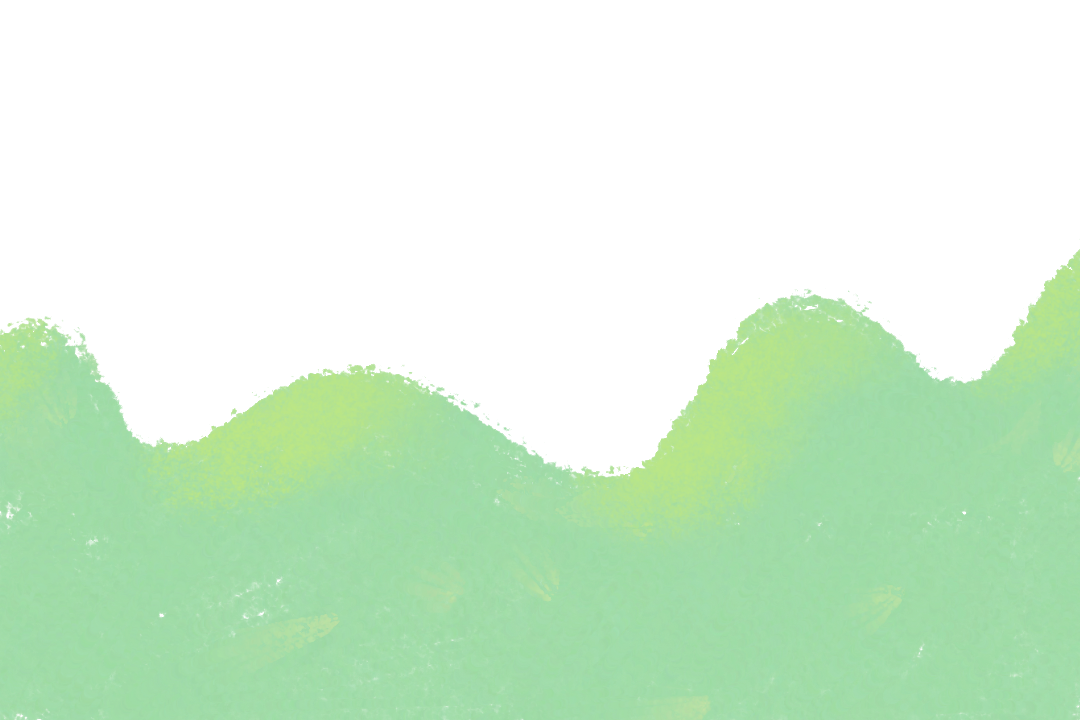
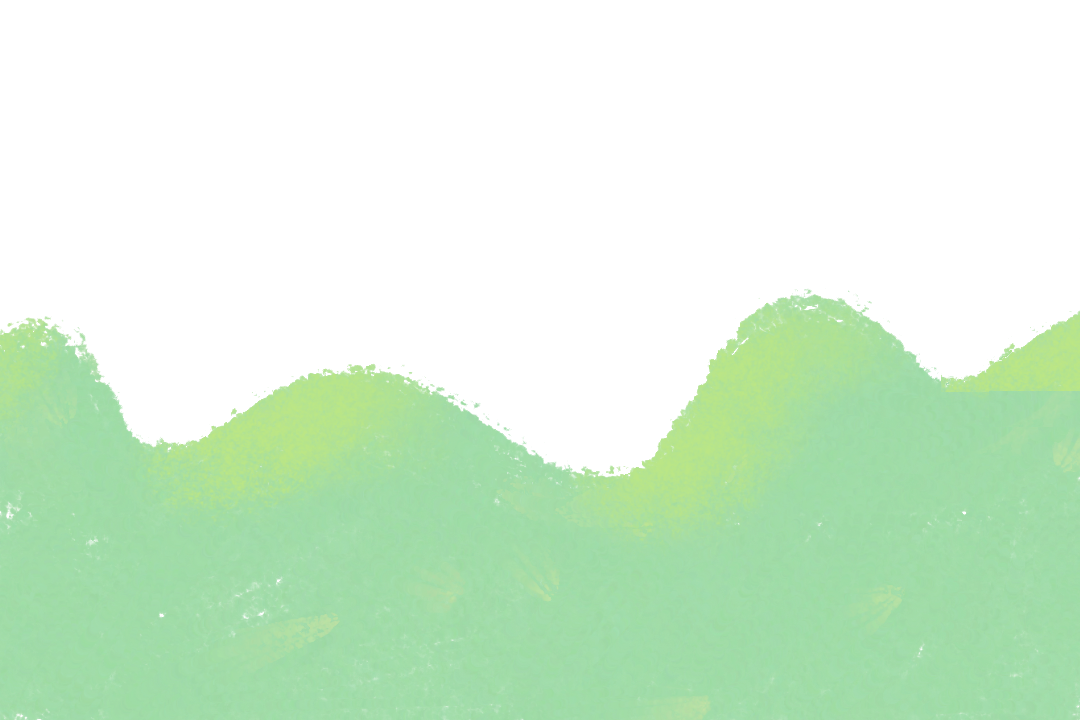
Made the necessary changes to change the background images.

Changed region(s): [[0.9167, 0.3361, 1.0, 0.5194], [0.9472, 0.4889, 1.0, 0.55], [0.8556, 0.5194, 0.9167, 0.55]]

diff --git a/ScrollerWorld/Src/js/main.js b/ScrollerWorld/Src/js/main.js
@@ -2,7 +2,7 @@
  * Created by ajt on 11/29/2015.
  */
 function Main() {
-    this.renderer = PIXI.autoDetectRenderer(512, 384, {backgroundColor: 0x66FF99});
+    this.renderer = PIXI.autoDetectRenderer(1080, 720, {backgroundColor: 0x66FF99});
     document.body.appendChild(this.renderer.view);
     this.stage = new PIXI.Container(0x66FF99);
 
@@ -27,8 +27,8 @@ Main.prototype.update = function() {
 };
 
 Main.prototype.loadSpriteSheet = function() {
-    var assetsToLoad = ["../resources/wall.json", "../resources/bg-mid.png",
-        "../resources/bg-far.png", "../resources/characterSprites.json", "../resources/characterSprites.png"];
+    var assetsToLoad = ["../resources/wall.json", "../resources/bg1.png",
+        "../resources/test2.png", "../resources/bg3.png", "../resources/characterSprites.json", "../resources/characterSprites.png"];
     loader = new PIXI.loaders.Loader();
     loader.add(assetsToLoad).load(this.spriteSheetLoaded.bind(this))
 };

diff --git a/ScrollerWorld/Src/js/Mid2.js b/ScrollerWorld/Src/js/Mid2.js
@@ -1,8 +1,8 @@
 /**
  * Created by ajt on 11/29/2015.
  */
-function Mid() {
-    var texture = PIXI.Texture.fromImage("../resources/test2.png");
+function Mid2() {
+    var texture = PIXI.Texture.fromImage("../resources/bg3.png");
     PIXI.extras.TilingSprite.call(this, texture, 1080, 720);
 
     this.position.x = 0;
@@ -13,13 +13,13 @@ function Mid() {
     this.viewportX = 0;
 }
 
-Mid.constructor = Mid;
-Mid.prototype = Object.create(PIXI.extras.TilingSprite.prototype);
+Mid2.constructor = Mid2;
+Mid2.prototype = Object.create(PIXI.extras.TilingSprite.prototype);
 
-Mid.DELTA_X = 0.12;
+Mid2.DELTA_X = 0.29;
 
-Mid.prototype.setViewportX = function(newViewportX) {
+Mid2.prototype.setViewportX = function(newViewportX) {
     var distanceTravelled = newViewportX - this.viewportX;
     this.viewportX = newViewportX;
-    this.tilePosition.x -= (distanceTravelled * Mid.DELTA_X);
+    this.tilePosition.x -= (distanceTravelled * Mid2.DELTA_X);
 };

diff --git a/ScrollerWorld/Src/js/Far.js b/ScrollerWorld/Src/js/Far.js
@@ -2,8 +2,9 @@
  * Created by ajt on 11/29/2015.
  */
 function Far() {
-    var texture = PIXI.Texture.fromImage("../resources/bg-far.png");
-    PIXI.extras.TilingSprite.call(this, texture, 512, 256);
+    //var texture = PIXI.Texture.fromImage("../resources/bg-far.png");
+    var texture = PIXI.Texture.fromImage("../resources/bg1.png");
+    PIXI.extras.TilingSprite.call(this, texture, 1080, 720);
 
     this.position.x=0;
     this.position.y=0;
@@ -16,7 +17,7 @@ function Far() {
 Far.constructor = Far;
 Far.prototype = Object.create(PIXI.extras.TilingSprite.prototype);
 
-Far.DELTA_X = 0.064;
+Far.DELTA_X = 0.014;
 
 Far.prototype.setViewportX = function(newViewportX) {
     var distanceTravelled = newViewportX - this.viewportX;

diff --git a/ScrollerWorld/Src/js/Scroller.js b/ScrollerWorld/Src/js/Scroller.js
@@ -8,6 +8,9 @@ function Scroller(stage) {
     this.mid = new Mid();
     stage.addChild(this.mid);
 
+    this.mid2 = new Mid2();
+    stage.addChild(this.mid2);
+
     this.front = new Walls();
     stage.addChild(this.front);
 
@@ -28,6 +31,7 @@ Scroller.prototype.setViewportX = function(viewportX) {
     this.viewportX = viewportX;
     this.far.setViewportX(viewportX);
     this.mid.setViewportX(viewportX);
+    this.mid2.setViewportX(viewportX);
     this.front.setViewportX(viewportX);
     this.character.updateSprite();
     this.jumpCharacter();

diff --git a/ScrollerWorld/Src/js/MapBuilder.js b/ScrollerWorld/Src/js/MapBuilder.js
@@ -7,15 +7,19 @@ function MapBuilder(walls) {
 }
 
 MapBuilder.WALL_HEIGHTS = [
-    256, // Lowest slice
-    224,
-    192,
-    160,
-    128  // Highest slice
+    656, // Lowest slice
+    624,
+    592,
+    560,
+    528  // Highest slice
 ];
 
 MapBuilder.prototype.createMap = function() {
     this.createWallSpan(0, 10, true);
+    this.createGap(2);
+    this.createWallSpan(1, 10, true);
+    this.createGap(2);
+    this.createWallSpan(2, 10, true);
     this.createGap(2);
 /*    this.createSteppedWallSpan(2, 5, 28);
     this.createGap(4);*/

diff --git a/ScrollerWorld/Src/html/index.html b/ScrollerWorld/Src/html/index.html
@@ -6,6 +6,7 @@
     <script src="../js/KeyboardControl.js"></script>
     <script src="../js/Far.js"></script>
     <script src="../js/Mid.js"></script>
+    <script src="../js/Mid2.js"></script>
     <script src="../js/Scroller.js"></script>
     <script src="../js/ObjectPool.js"></script>
     <script src="../js/SliceType.js"></script>

diff --git a/ScrollerWorld/Src/js/Walls.js b/ScrollerWorld/Src/js/Walls.js
@@ -20,7 +20,7 @@ function Walls() {
 Walls.constructor = Walls;
 Walls.prototype = Object.create(PIXI.Container.prototype);
 
-Walls.VIEWPORT_WIDTH = 512;
+Walls.VIEWPORT_WIDTH = 1080;
 Walls.VIEWPORT_NUM_SLICES = Math.ceil(Walls.VIEWPORT_WIDTH/WallSlice.WIDTH) + 1;
 
 Walls.prototype.setViewportX = function(viewportX) {

diff --git a/ScrollerWorld/Src/js/game.js b/ScrollerWorld/Src/js/game.js
@@ -1,7 +1,7 @@
 /**
  * Created by t_tappa on 9/30/2015.
  */
-var renderer = PIXI.autoDetectRenderer(512, 384,{backgroundColor : 0x66FF99}),
+var renderer = PIXI.autoDetectRenderer(1080, 720,{backgroundColor : 0x66FF99}),
     map = MapClass();
 document.body.appendChild(renderer.view);
 
